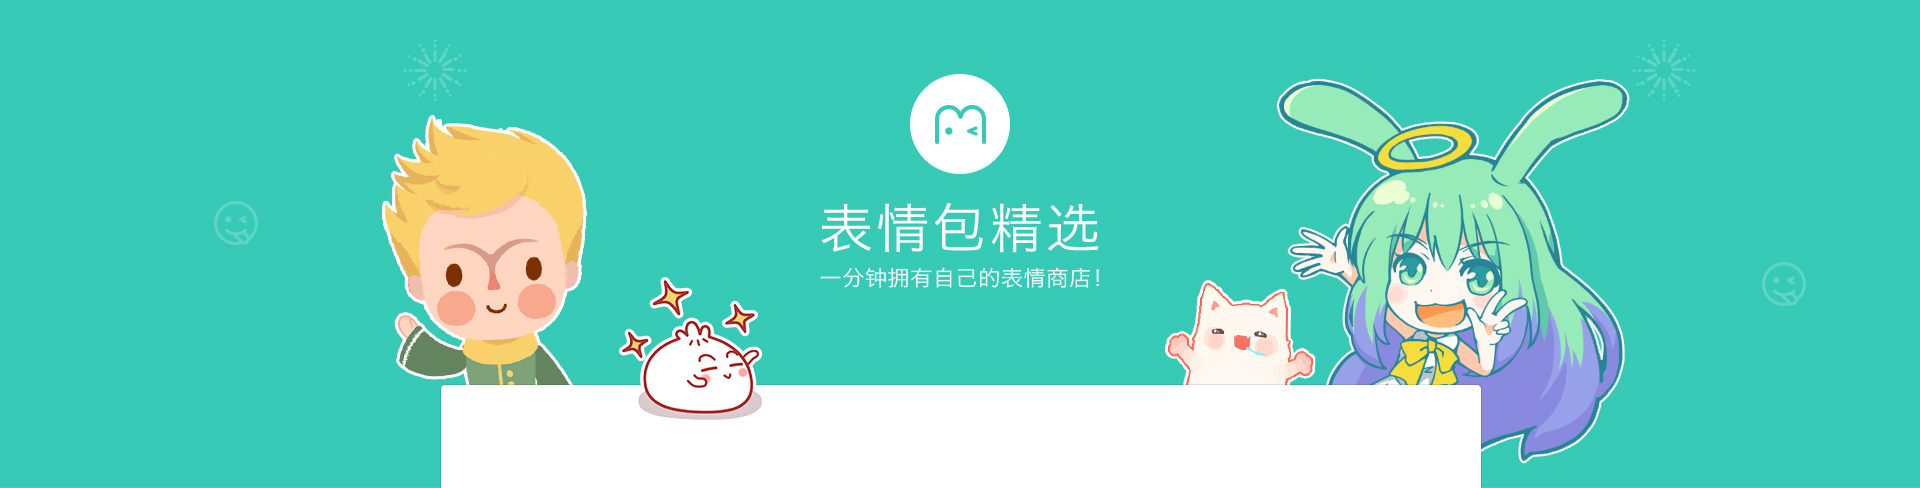
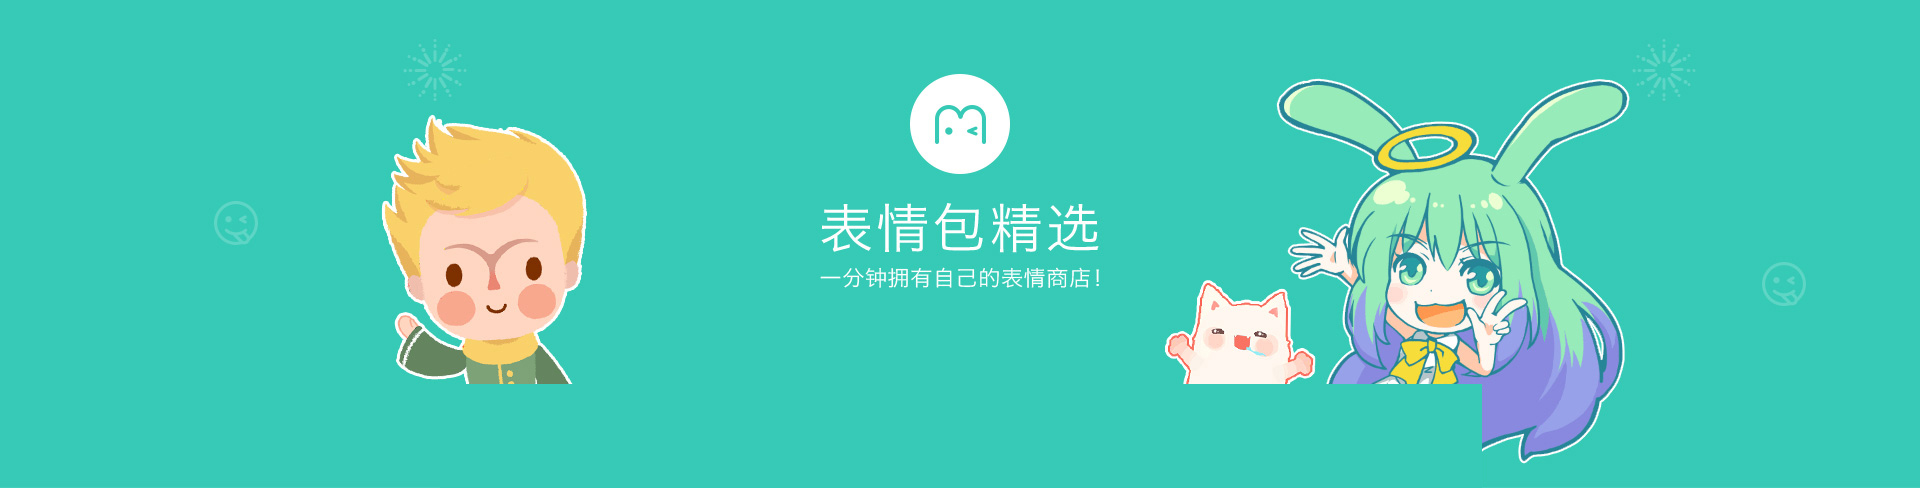
表情一览顶部banner样式调整

Changed region(s): [[0.2188, 0.584, 0.7812, 1.0]]

diff --git a/themes/bqmmfal/Portal/emoji.html b/themes/bqmmfal/Portal/emoji.html
@@ -18,7 +18,7 @@
 
         <div class="main b70" style="margin-top: -114px;">
 
-            <div class="series-list">
+            <div class="series-list" style="position: relative; background: #FFFFFF; border: 1px solid #E1E1E1; border-radius: 7px; padding-bottom: 50px;">
                 <foreach name="subterms" item="subterm">
                 <notempty name="subterm.posts">
                 <h2 class="top50 default" style="color: {$subterm.color} !important;">{$subterm.name}</h2>
@@ -48,7 +48,7 @@
 
             </div>
 
-            <div class="series-list-foot"></div>
+            <!-- <div class="series-list-foot"></div> -->
         </div>
         <!--main end-->
     </div>
